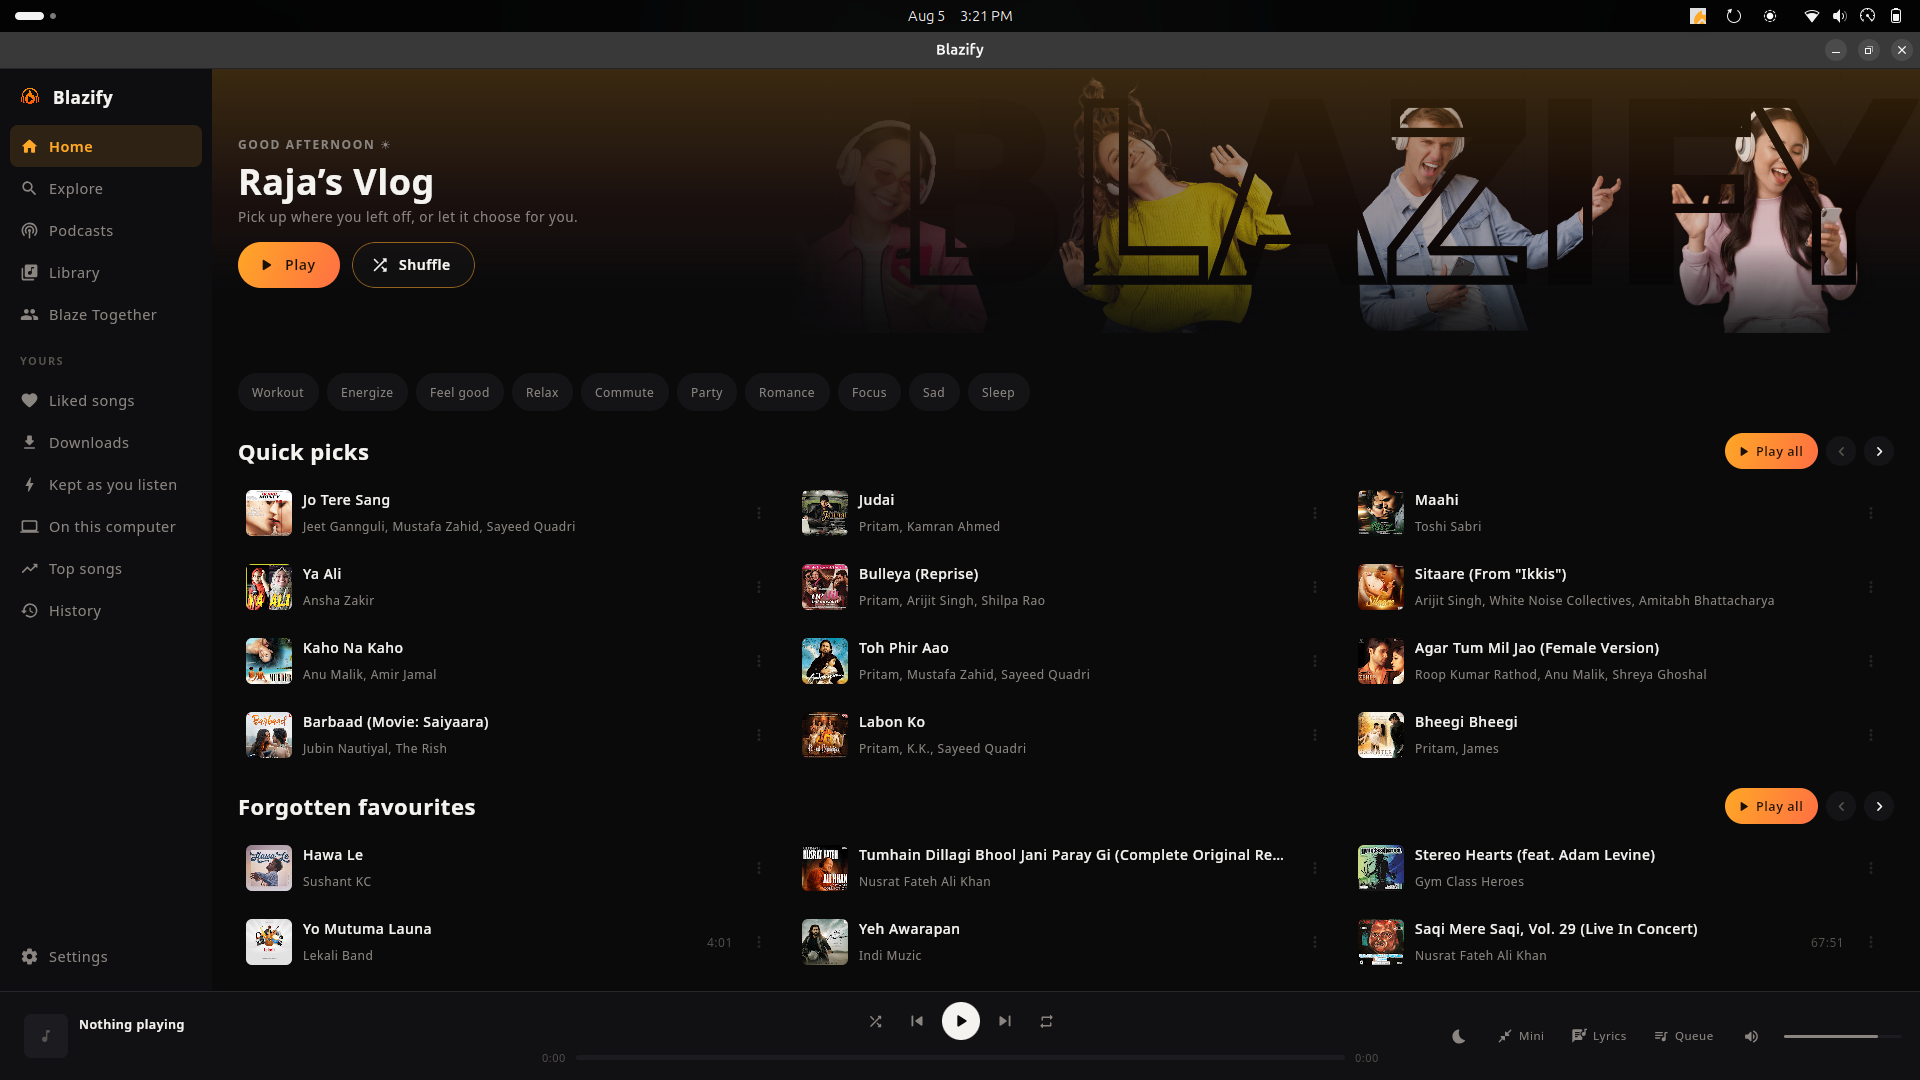
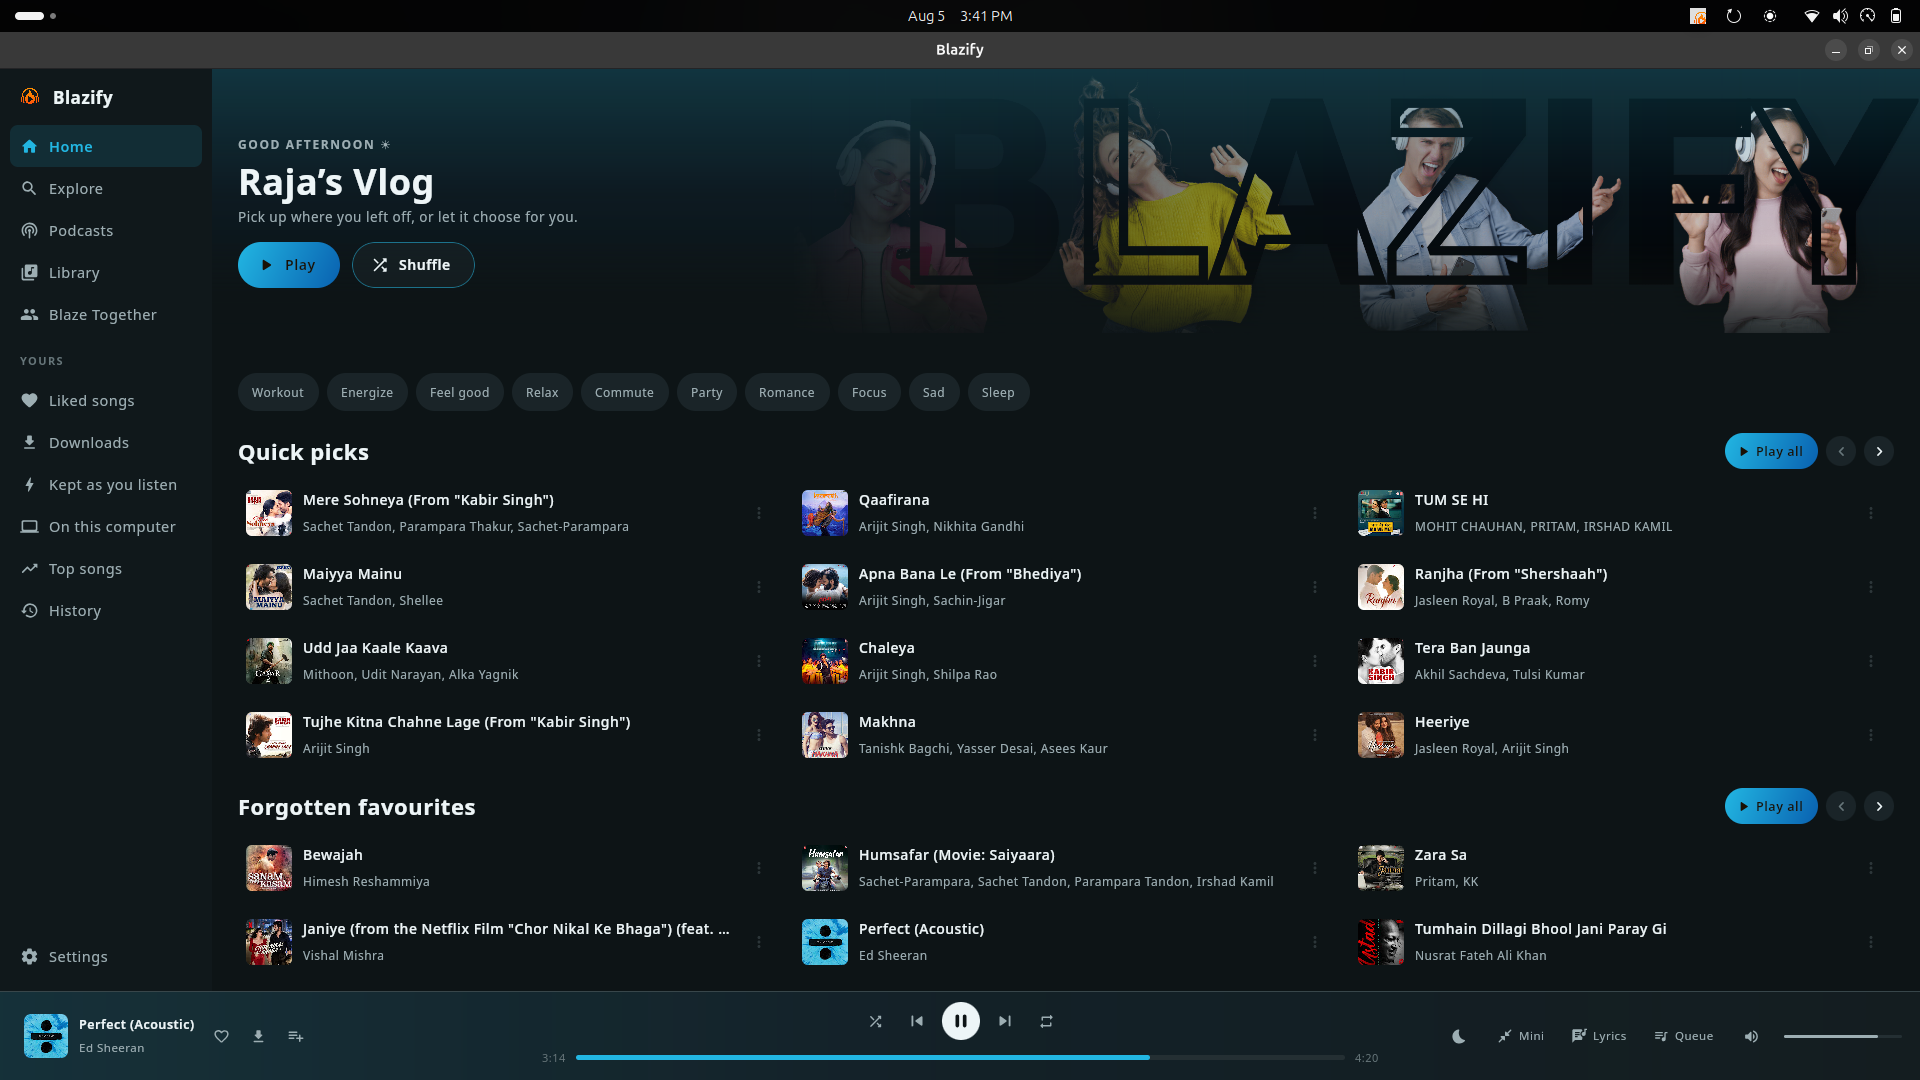
Screenshots of the things each section is about
The page had two shots of the home screen and none of the pages being
described. Now each section shows its own: the audio settings under
listening, a show's page under programmes, the kept songs under keeping
things, the sheet and the settings under look.

The Linux section also names the three shapes on the releases page and what
each is for, since the one somebody wants depends on a distribution the page
cannot see.

diff --git a/README.md b/README.md
@@ -38,9 +38,11 @@ as they're sung, and listen to programmes as well as records.
 - **Media keys and the system panel.** Play, pause, next and previous from the
   keyboard; title, artist and cover in your desktop's own media widget.
 
+![Player and audio](docs/screenshots/player-and-audio.png)
+
 ### Words
 
-![Lyrics](docs/screenshots/now-playing-lyrics.png)
+![Lyrics](docs/screenshots/lyrics.png)
 
 - **Lyrics from five sources**, asked in an order you set, because no one
   service has everything — one is excellent for Western pop and thin on
@@ -52,7 +54,7 @@ as they're sung, and listen to programmes as well as records.
 
 ### Programmes
 
-![Podcasts](docs/screenshots/podcasts.png)
+![A podcast](docs/screenshots/podcasts.png)
 
 - **Two directories at once.** The open podcast directory knows the world's
   programmes — Test Match Special with 657 episodes, The Daily with 2,680 — and
@@ -79,7 +81,7 @@ as they're sung, and listen to programmes as well as records.
   were, and a *Pick up where you left off* row puts it back in front of you.
   Music and talk are kept apart — an episode belongs on the podcasts page.
 
-![Pick up where you left off](docs/screenshots/home-continue.png)
+![Kept as you listen](docs/screenshots/kept-as-you-listen.png)
 
 ### Together
 
@@ -99,10 +101,8 @@ as they're sung, and listen to programmes as well as records.
 
 ![Player looks](docs/screenshots/player-looks.png)
 
-- **Colour taken from the artwork**, accent only or the whole window.
-
-![Dynamic colour](docs/screenshots/home-dynamic-colour.png)
-
+- **Colour taken from the artwork**, accent only or the whole window — the
+  screenshots on this page are the same application on the same evening.
 - **Dark, light, or whatever the desktop is doing.**
 - **A mini player** that stays on top, and a tray icon with the transport on it.
 
@@ -112,8 +112,16 @@ as they're sung, and listen to programmes as well as records.
 
 ### Linux
 
+Three shapes, on the [releases page](../../releases/latest):
+
+| | |
+|---|---|
+| **`.deb`** | Debian, Ubuntu, Mint, Pop!_OS |
+| **`.AppImage`** | Fedora, Arch, openSUSE, or anywhere. One file, nothing installed |
+| **`.tar.gz`** | The same application as a plain folder |
+
 ```bash
-sudo apt install ./blazify_1.0.1_amd64.deb
+sudo apt install ./blazify_1.0.2_amd64.deb
 ```
 
 It lands in the applications menu under Sound & Video. The package brings its own
@@ -132,6 +140,14 @@ a browser session, and there's a third that needs nothing at all.
 
 > Use `apt` rather than `dpkg -i`. Both install the package; only one resolves
 > what it depends on.
+
+The AppImage asks for nothing at all — the audio library and its decoders travel
+inside it, so it plays on a machine that has never heard of VLC:
+
+```bash
+chmod +x Blazify-1.0.2-x86_64.AppImage
+./Blazify-1.0.2-x86_64.AppImage
+```
 
 ### Windows
 
